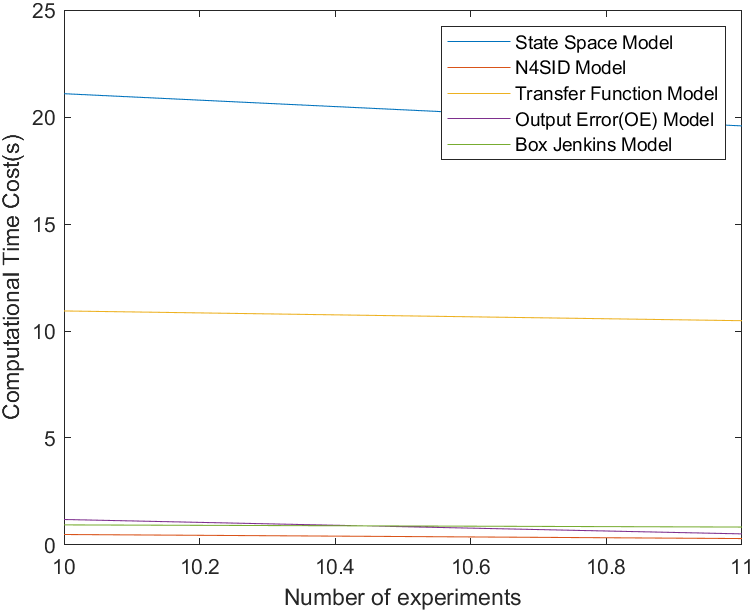
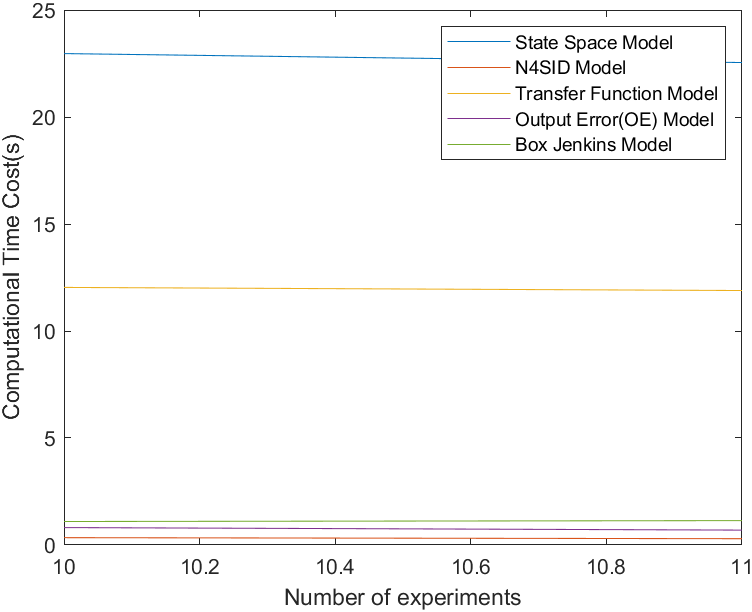
Updated pipeline

diff --git a/src/qcmIdentPipeline.m b/src/qcmIdentPipeline.m
@@ -2,10 +2,10 @@ clear all;
 close all;
 
 estSplit = 0.3;
-numRuns = 11;
+numRuns = 50;
 avgComputeCost = zeros(6,numRuns-10);
 
-for loopCounter = 1:2
+for loopCounter = 1:5
     
     [inputParams,totalResponseData,modelStepResponse] = generateQCM(numRuns);
         
